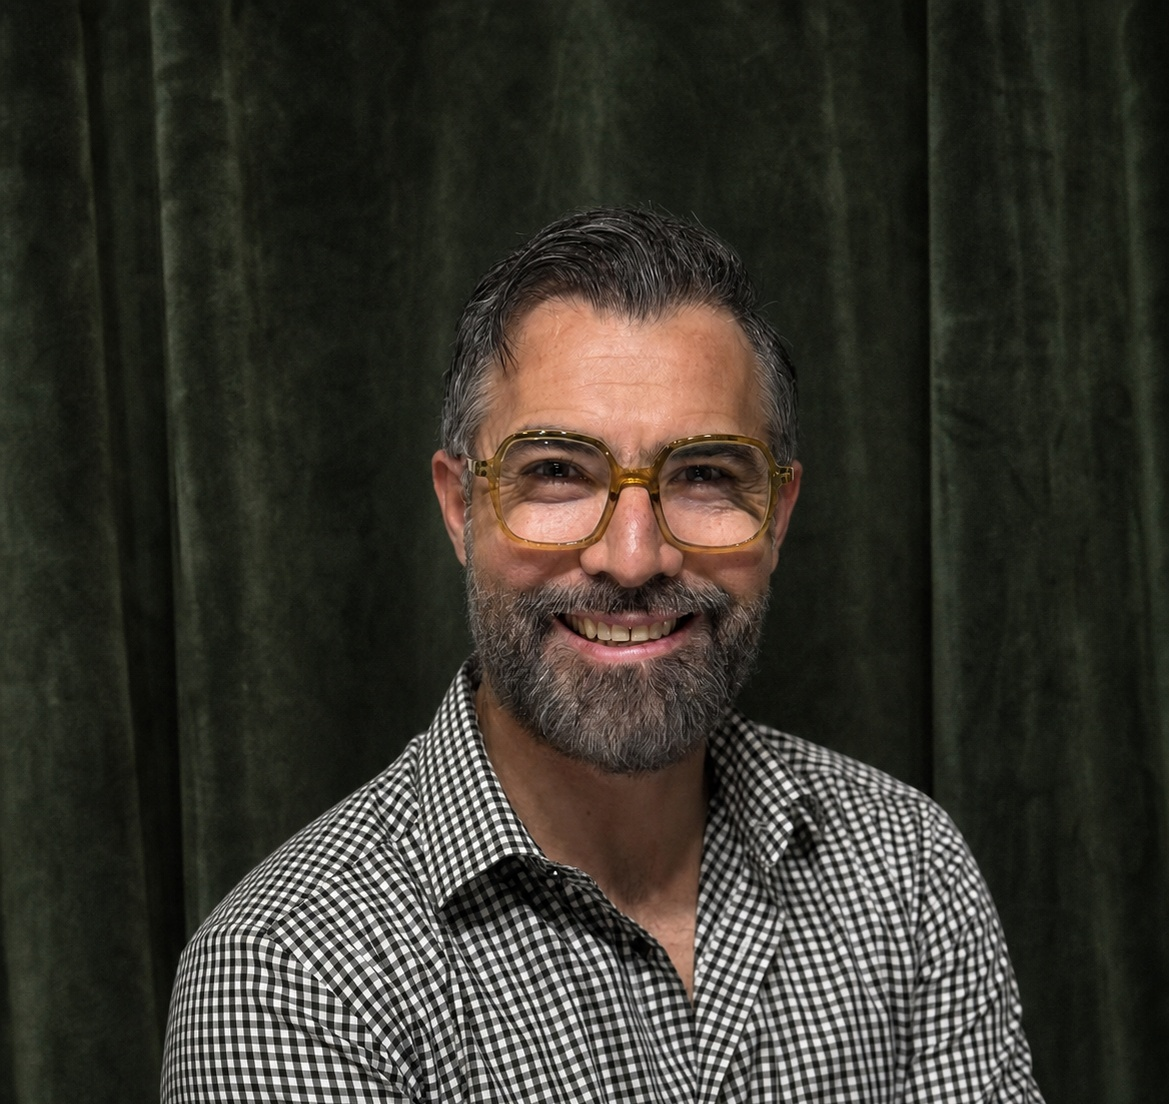
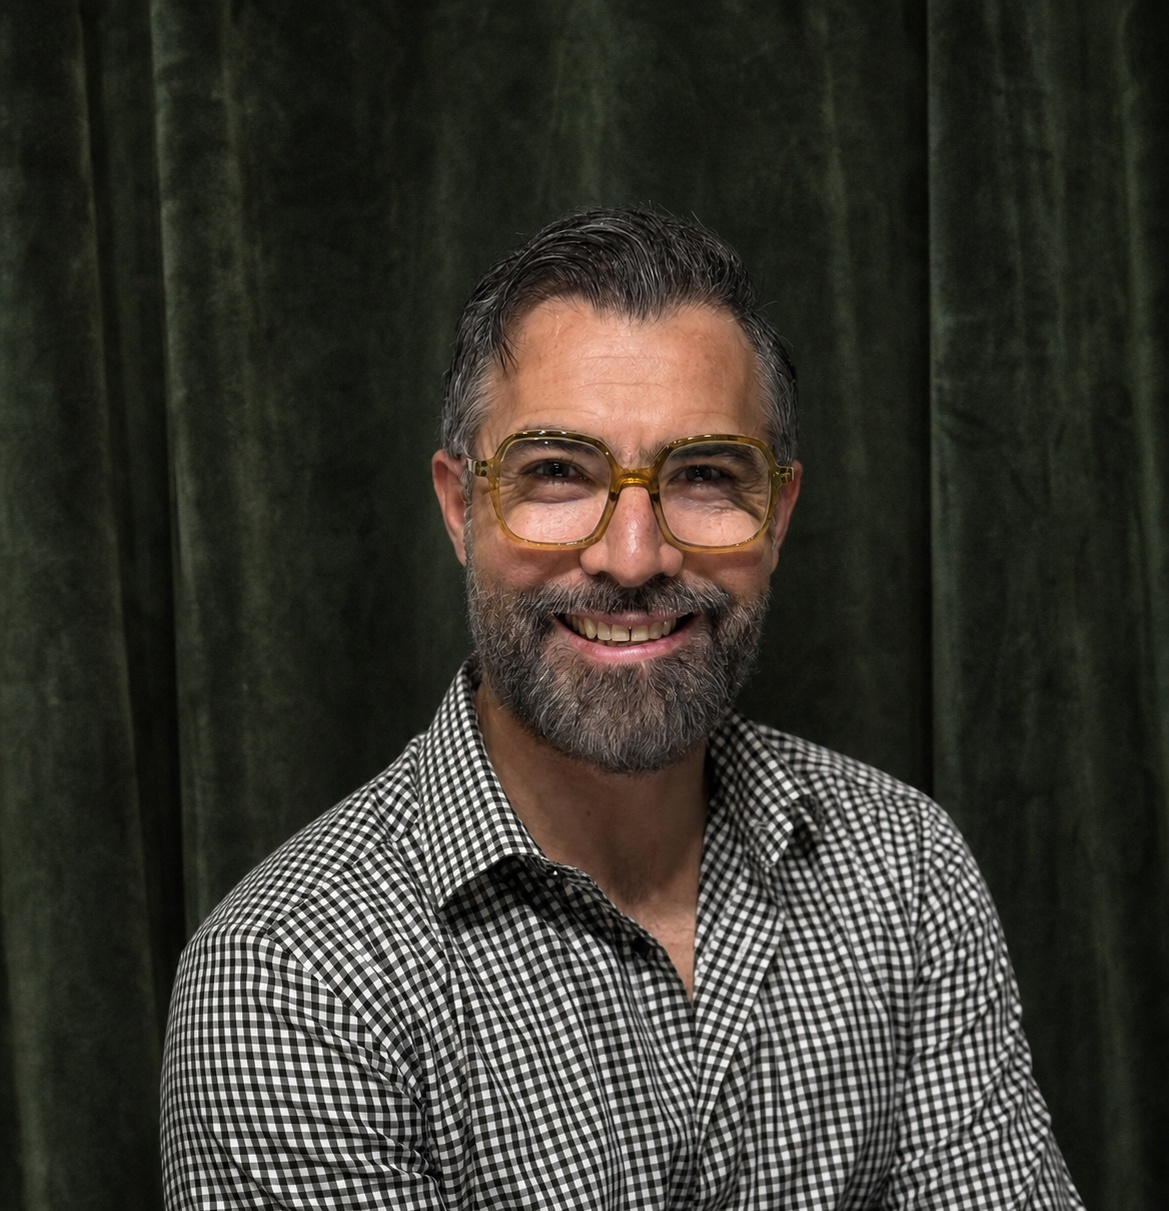
Suavizar recorte de Roberto en equipo

Changed region(s): [[0.1232, 0.154, 0.9239, 1.0], [0.154, 0.4928, 0.1848, 0.5236], [0.0, 0.9547, 0.0308, 0.9855]]

diff --git a/index.html b/index.html
@@ -283,7 +283,7 @@ footer{background:#000b0f;padding:32px 56px;display:flex;justify-content:space-b
         <!-- Roberto -->
         <div class="team-card roberto">
           <a class="team-avatar team-profile-link" href="roberto-corrales.html" aria-label="Ver semblanza de Roberto Corrales">
-            <img class="team-photo" src="roberto-equipo.jpg?v=2" alt="Roberto Carlos González Corrales" loading="lazy" decoding="async">
+            <img class="team-photo" src="roberto-equipo.jpg?v=3" alt="Roberto Carlos González Corrales" loading="lazy" decoding="async">
             <div class="team-hover-info">
               <div class="team-hover-role" data-es="Socio Fundador" data-en="Founding Partner">Socio Fundador</div>
             </div>
